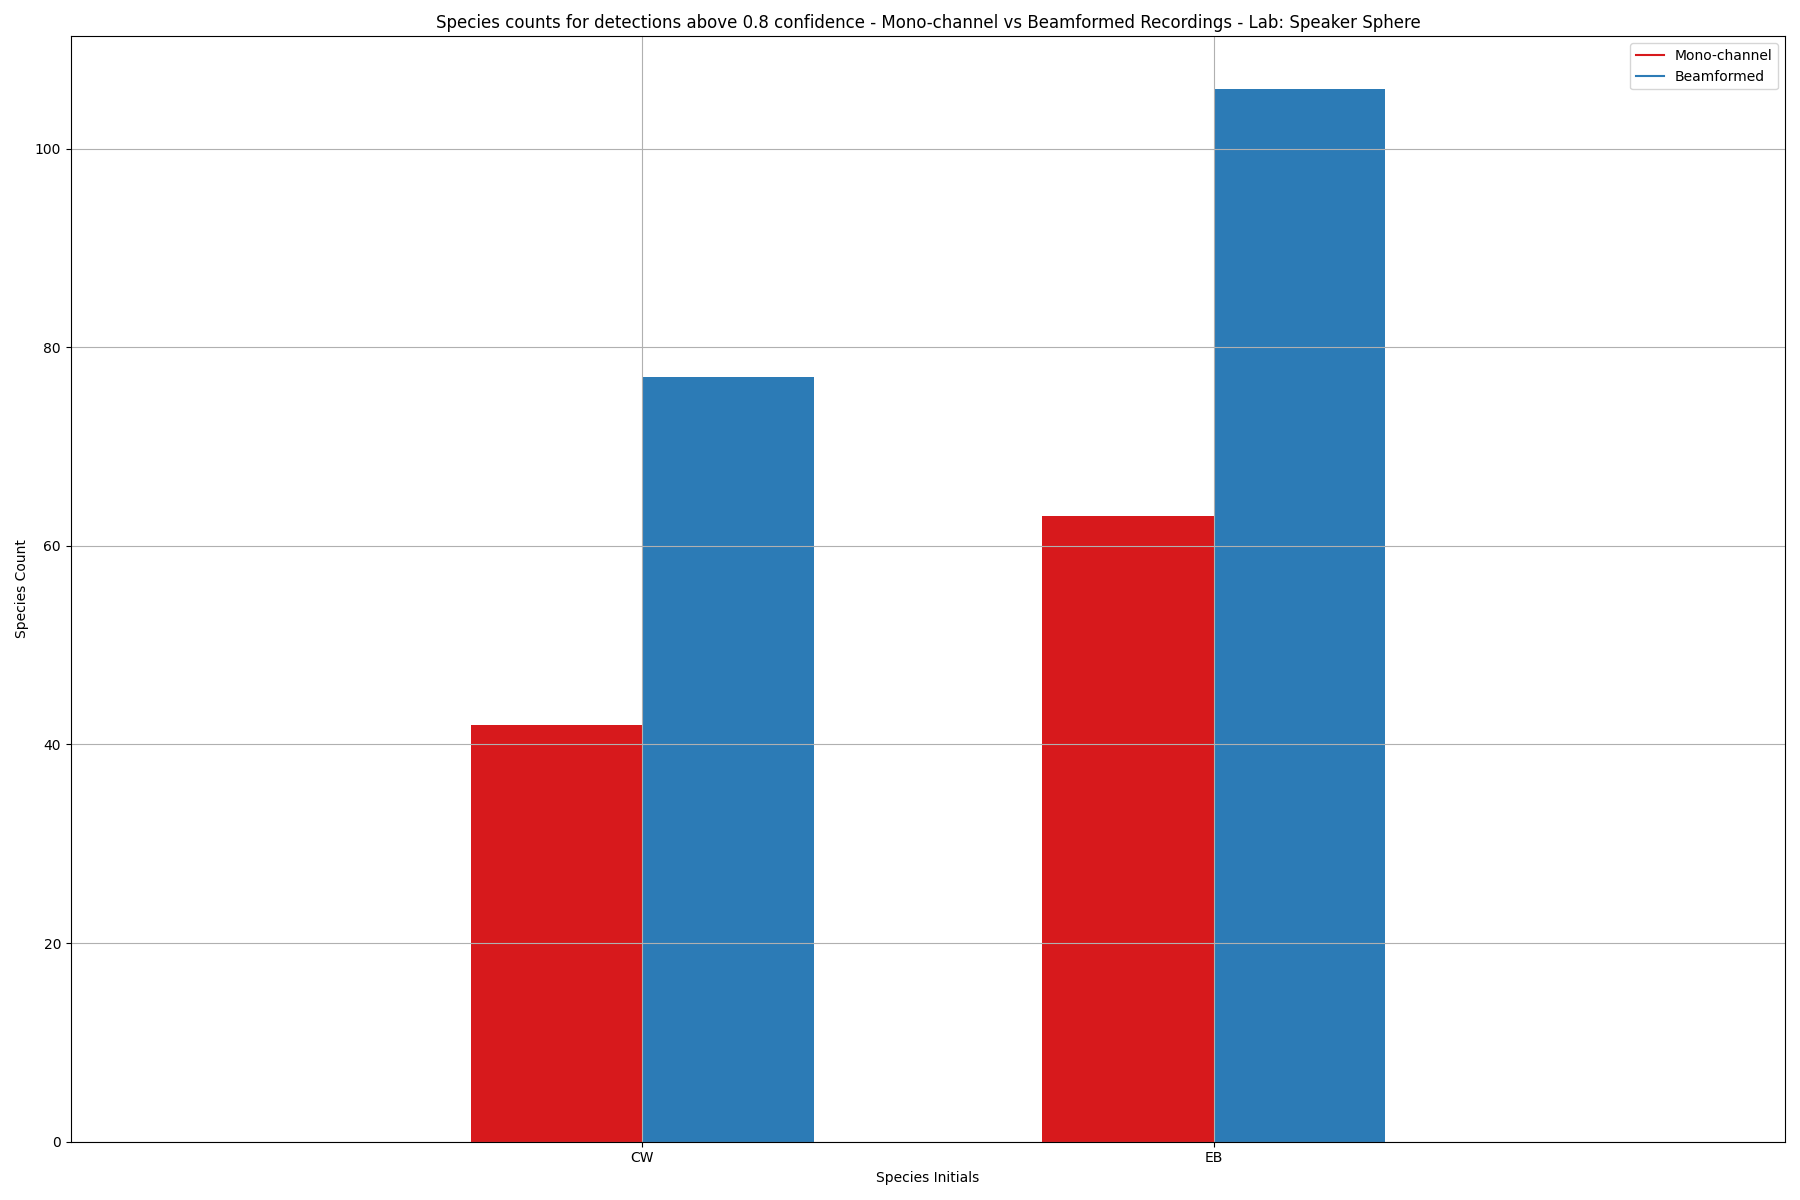
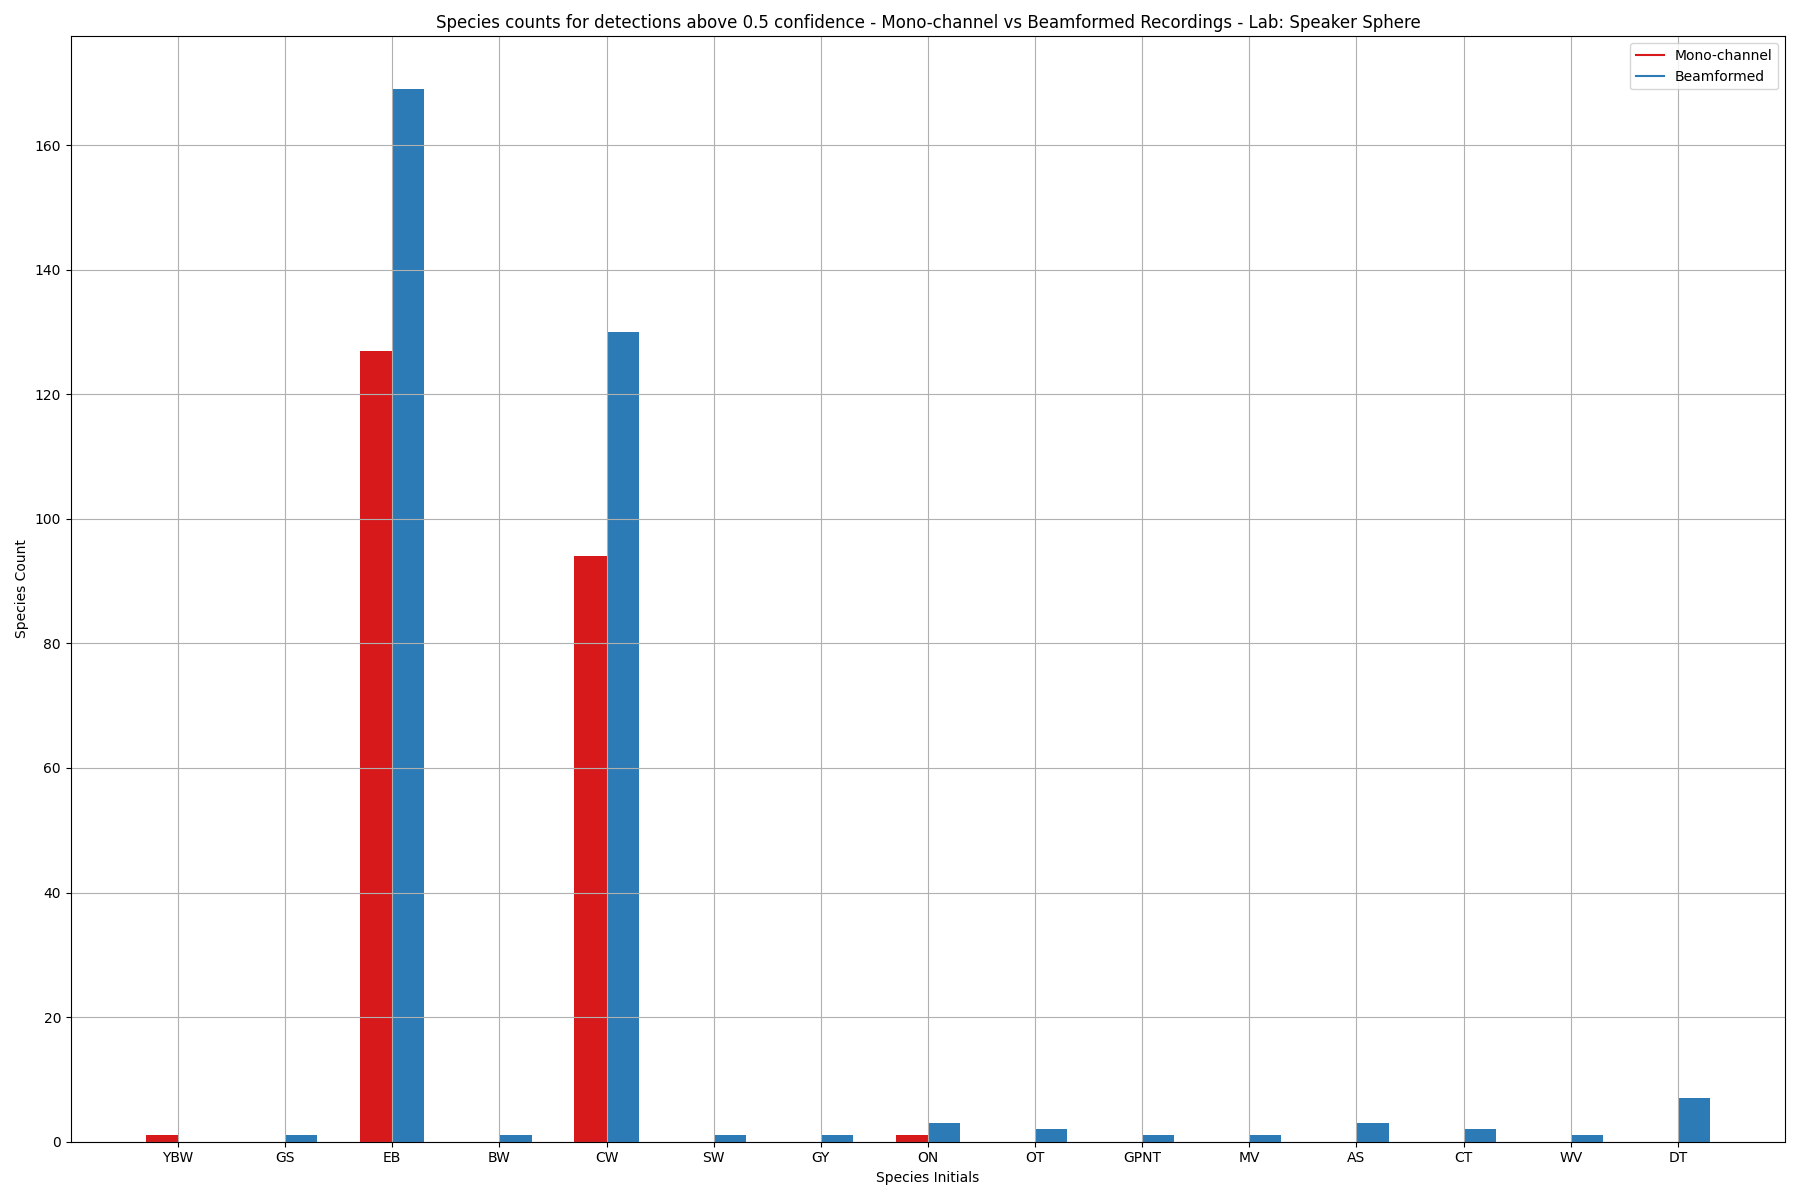
Added code to produce confidence histograms

diff --git a/src/analysis_scripts/compare_birdnet_results.py b/src/analysis_scripts/compare_birdnet_results.py
@@ -10,8 +10,10 @@
 
 import os
 import json
+import math
 import matplotlib.pyplot as plt
 import numpy as np
+import pandas as pd
 
 # Define constants
 DIR_PATH = "data/processed/speaker_sphere_lab_tests"
@@ -243,6 +245,61 @@ def setup_new_plot(xlabel, ylabel, title):
     plt.grid(True)
 
 
+def draw_histograms(df, variables, n_rows, n_cols, title, file_path):
+    """Draws several histograms in a single plot
+    --> Organised in a grid of n_rows x n_cols"""
+    fig=plt.figure(figsize=(18, 12))
+    plt.title(title)
+
+    for i, var_name in enumerate(variables):
+        ax=fig.add_subplot(n_rows,n_cols,i+1)
+        df[var_name].hist(bins=10,ax=ax)
+        ax.set_title(var_name+" Distribution")
+    
+    fig.tight_layout()  # Improves appearance a bit.
+    
+    plt.savefig(file_path)
+    plt.show()
+
+
+def find_best_grid_arrangement(num_graphs):
+    """Calculate the number of rows and columns for the grid"""
+    num_rows = math.ceil(math.sqrt(num_graphs))
+    num_cols = math.ceil(num_graphs / num_rows)
+
+    return num_rows, num_cols
+
+
+def plot_confidence_histograms(mono_data, bf_data, mono_file_path, bf_file_path):
+    """Creates two plots - each containing X histograms (one for each species present)
+    --> Used to assess whether confidence data is normally distributed"""
+
+    hist_conf_data_mono = []
+    hist_conf_data_bf = []
+    hist_labels = []
+
+    # Extract the confidence levels list for each species - append to list of lists
+    for species in mono_data.keys():
+        if mono_data[species]["count"] >= 5:    # Only plot those with more than 5 detections (greater sample size)
+            hist_conf_data_mono.append(mono_data[species]["conf_list"])
+            hist_conf_data_bf.append(bf_data[species]["conf_list"])
+            hist_labels.append(get_initials(species))
+
+    if hist_labels:
+        mono_df = pd.DataFrame(hist_conf_data_mono, columns=hist_labels)
+        bf_df = pd.DataFrame(hist_conf_data_bf, columns=hist_labels)
+
+        num_rows, num_cols = find_best_grid_arrangement(len(hist_conf_data_mono))
+
+        mono_title = f"Distributions of confidence levels, per species - Mono-channel - {LOCATION}"
+        bf_title = f"Distributions of confidence levels, per species - Beamformed - {LOCATION}"
+
+        draw_histograms(mono_df, hist_labels, num_rows, num_cols, mono_title, mono_file_path)
+        draw_histograms(bf_df, hist_labels, num_rows, num_cols, bf_title, bf_file_path)
+    else:
+        print("No histogram data to plot!")
+
+
 def boxplot_conf_comparison(mono_data, bf_data, file_path):
     """Creates a boxplot to compare confidence levels of mono-channel vs beamformed
     --> Split into groups (1 group per species) - for side-by-side comparison"""
@@ -351,7 +408,7 @@ processed_results = {"mono_channel": {},
 # New dict to compare species count, above a min conf level - detections in either mono or beamformed
 species_counts = {"mono_channel": {},
                  "beamformed": {}}
-CONF_MIN = 0.8          # Specify threshold confidence level
+CONF_MIN = 0.5          # Specify threshold confidence level
 
 # Analyse all results files in the directory
 for root, dirs, files in os.walk(DIR_PATH, topdown=False):
@@ -366,13 +423,21 @@ for root, dirs, files in os.walk(DIR_PATH, topdown=False):
 write_processed_to_file(processed_results, "processed.json")
 write_processed_to_file(species_counts, "species_counts.json")
 
-# Plot the data for visual inspection
+# Plot the data for visual inspection--------------------------------------
+# Confidence Boxplots...
 mono_dict = processed_results["mono_channel"]
 bf_dict = processed_results["beamformed"]
 boxplot_file_path = DIR_PATH + "/boxcompare.png"
 
 boxplot_conf_comparison(mono_dict, bf_dict, boxplot_file_path)
 
+# Confidence Histograms...
+mono_hist_file_path = DIR_PATH + "/mono_hists.png"
+bf_hist_file_path = DIR_PATH + "/bf_hists.png"
+
+plot_confidence_histograms(mono_dict, bf_dict, mono_hist_file_path, bf_hist_file_path)
+
+# Species Count Bar Charts...
 mono_dict = species_counts["mono_channel"]
 bf_dict = species_counts["beamformed"]
 barchart_file_path = DIR_PATH + "/bar_compare_count.png"
